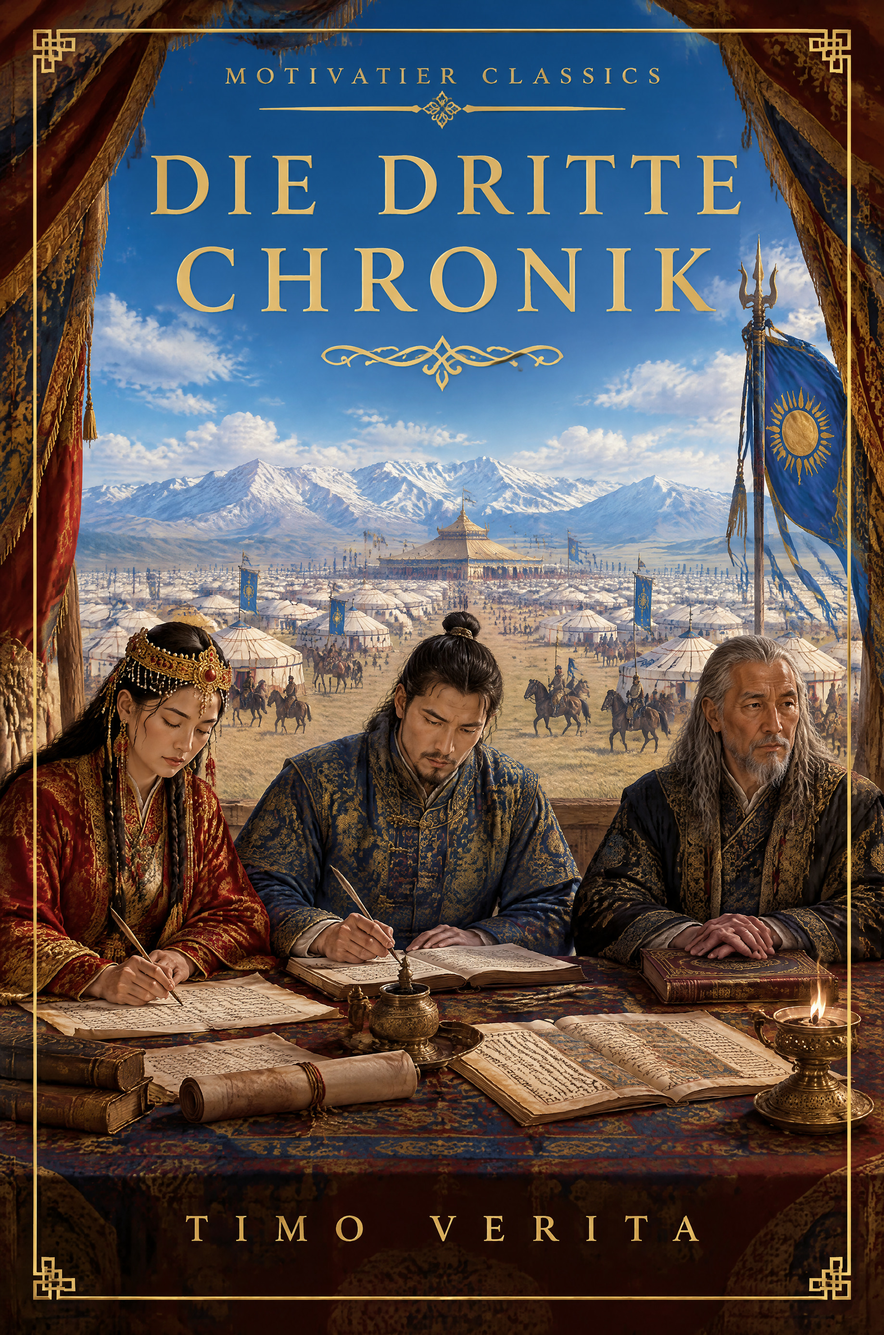
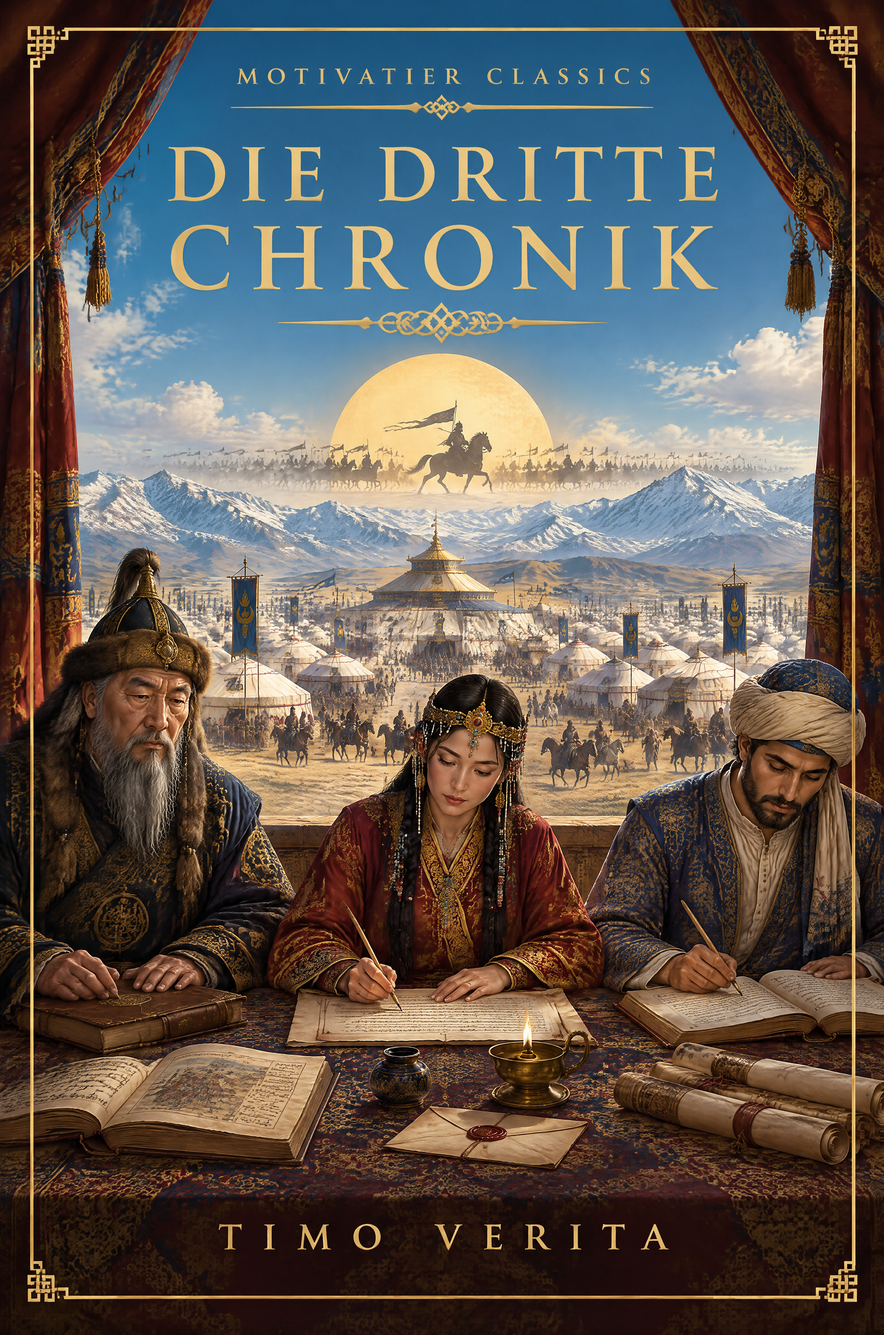
books: die-dritte-chronik Cover v2 (Fatima mittig, Geist-Reiter) + Untertitel
- Untertitel festgelegt: "Im Schatten Dschingis Khans" statt "Die Chronik
  derer, die nicht schreiben duerfen". Zieht in Titelei, EPUB und Druck durch.
- Cover-Render v2 (job 444320e4, 1,25 Credits): Fatima sitzt in der MITTE,
  links der alte Mongole (Shigi Qutuqu), rechts der persische Schreiber
  (Juvaini). In allen frueheren Entwuerfen sass die Frau links.
- Dschingis Khan als Geist: harte Silhouette eines Reiters vor der
  Sonnenscheibe mit Geistheer, im Mittelgrund zwischen Titel und Tisch
  (Vorbild assets/covers/cover-neu.png).
- Druckdatei cover-print.jpg neu: 1838x2775 px, 300 dpi, 0,7 % Beschnitt.
- Satz unveraendert 262 Seiten; Wrap cover-wrap-20261111-142937-262.pdf.

diff --git a/books/die-dritte-chronik/work/prompts/higgsfield/cover-print-4k-20261111-v2.md b/books/die-dritte-chronik/work/prompts/higgsfield/cover-print-4k-20261111-v2.md
@@ -1,0 +1,43 @@
+# Cover-Prompt Druckcover (4k, Text im Bild) - Versuch 2
+
+Buch: `die-dritte-chronik` (Die dritte Chronik, Timo Verita)
+Ziel: `assets/covers/cover-print.jpg`, Panel des Wrap (6x9 + Beschnitt), 300 dpi
+Modell: `gpt_image_2_5`, `aspect_ratio 2:3`, `resolution 4k`, `quality medium`
+Freigabe: Nutzer 2026-11-11 (zweiter Lauf: Sitzordnung + Geist)
+
+## Was gegenueber Versuch 1 anders ist
+
+1. **Fatima sitzt in der MITTE**, nicht links. Links der alte Mongole
+   (Shigi Qutuqu, Oberrichter), rechts der persische Schreiber (Ata-Malik
+   Juvaini). In allen bisherigen Entwuerfen (Ebook-Cover, cover2, cover-neu)
+   sass die Frau links - das war falsch.
+2. **Dschingis Khan als Geist**: harte Silhouette eines Reiters vor der
+   Sonnenscheibe, mit dem Heer darunter. Vorbild ist der aeltere Entwurf
+   `assets/covers/cover-neu.png`. Der Roman heisst "Im Schatten Dschingis
+   Khans"; er ist die treibende Abwesenheit des Buches.
+
+## Platzregel fuer den Geist
+
+Der Reiter sitzt im **Mittelgrund zwischen Titel und Tisch** - auf Hoehe der
+Zeltstadt und der Berge, **nicht am Himmel**. Sonst kollidiert er mit
+`MOTIVATIER CLASSICS` und `DIE DRITTE CHRONIK` und der Renderer schreibt
+Text ueber die Silhouette.
+
+## Prompt
+
+Vertical German historical novel cover, 2:3, full-bleed artwork, slim ornamental border only.
+
+SCENE: Three chroniclers seated behind a low table inside a richly decorated tent, seen from the front, all three facing the viewer's table. In the CENTRE sits a woman in a deep red and gold embroidered robe with a jewelled headdress and long dark hair, writing on parchment with a reed pen. To her LEFT an older Mongol man with a long grey beard and a dark embroidered robe, resting his hands on a closed book. To her RIGHT a younger Persian scribe with a short beard, a patterned blue and gold coat and a cloth wrapped around his head, writing in an open book with a reed pen. On the table lie open folios, rolled scrolls, a sealed letter, an inkwell and a small brass lamp.
+
+Beyond the tent opening: the vast encampment of Karakorum with hundreds of round white yurts, blue and gold banners, riders in the middle distance, and a great golden-topped pavilion. Behind the camp rise snow-capped mountains under a bright sky with scattered clouds. Low over the horizon hangs a huge pale golden sun disc, and ACROSS that disc, in the middle distance at the height of the camp and the mountains, rides the hard black silhouette of a lone horseman with a banner, a ghostly warlord who is no longer present, his horse in full stride, with the ghostly silhouettes of a small army behind him. The silhouette stays below the sky and never touches the top third of the image.
+
+Warm daylight, gold, deep red, lapis blue and cream palette, fine painterly detail, cinematic historical illustration, grave and dignified mood, Mongol empire of the thirteenth century.
+
+TYPOGRAPHY, integrated into the artwork, clean sharp serif capitals, every word spelled exactly:
+- At the very top, centered, small letterspaced gold capitals: MOTIVATIER CLASSICS
+- Below it a thin gold rule with a small ornament in the middle.
+- Below that, centered title in two very large lines in golden serif capitals with generous letterspacing: DIE DRITTE, then CHRONIK, with an ornamental flourish under the final word.
+- Across the bottom, centered and widely letterspaced in gold capitals on the dark table edge: TIMO VERITA
+- Keep a clear word space between every word: MOTIVATIER CLASSICS, DIE DRITTE CHRONIK and TIMO VERITA must each read as separate words with generous spacing, never merged into one long word.
+
+Safe margins: no lettering and no ornamental line may come closer than 7 percent of the height to the top or bottom edge and 7 percent of the width to the left or right edge. Any decorative border must stay well inside those margins. The ghost rider and his army must not overlap any lettering. No other text. No barcode, no price, no watermark, no text boxes, no drop shadows.
